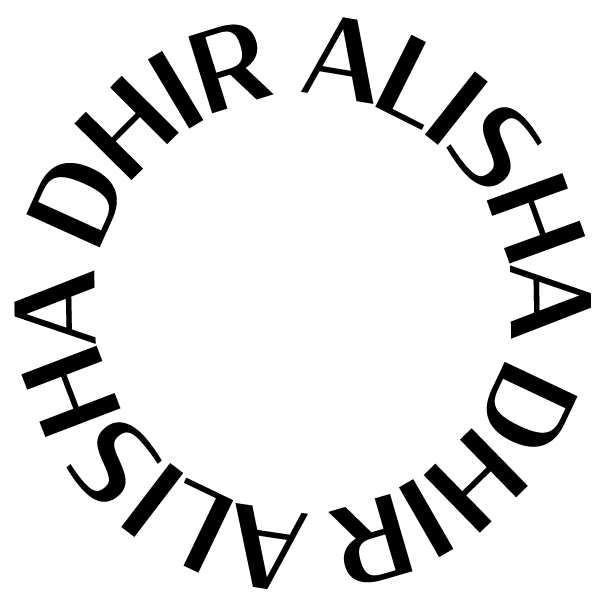
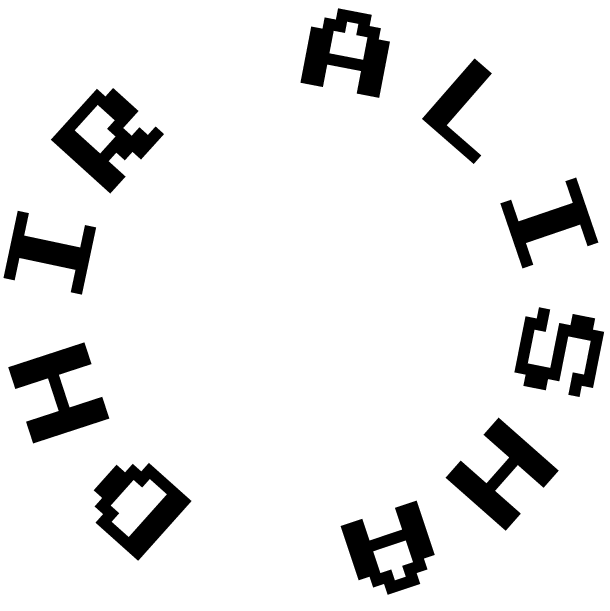
YES ITS WORKING

Changed region(s): [[0.4752, 0.0, 1.0, 0.9802], [0.0, 0.0297, 0.505, 0.9802]]

diff --git a/styleone.css b/styleone.css
@@ -4,17 +4,63 @@ body {
   background-color: #FCFCE6;
 }
 
-.enter a{
-  color: black;
-  font-family: Helvetica;
-  font-size: 200px;
+#namecircle{
   display: flex;
   align-items: center;
   justify-content: center;
   margin: 10% 0;
   min-height: 200px;
-  margin-top: 20%;
+  margin-top: 21.5%;
+  z-index: -1;
+  -webkit-animation: rotation 4s infinite linear;
+}
+
+@-webkit-keyframes rotation {
+		from {
+				-webkit-transform: rotate(0deg);
+		}
+		to {
+				-webkit-transform: rotate(359deg);
+		}
+  }
+
+.enter a{
+  color: black;
+  font-family: Helvetica;
+  font-size: 200px;
+  position: absolute;
+  top: 50%;
+  left: 50%;
+  transform: translate(-50%, -50%);
   text-decoration: none;
+  z-index: +1;
+}
+
+.topleft{
+  color: black;
+  font-family: Helvetica;
+  font-size: 70px;
+  position: absolute;
+  top: 8px;
+  left: 16px;
+}
+
+.topright{
+  color: black;
+  font-family: Helvetica;
+  font-size: 70px;
+  position: absolute;
+  top: 8px;
+  right: 16px;
+}
+
+.bottomleft{
+  color: black;
+  font-family: Helvetica;
+  font-size: 70px;
+  position: absolute;
+  bottom: 8px;
+  left: 16px;
 }
 
 @media screen and (max-width: 768px) {

diff --git a/index.html b/index.html
@@ -7,16 +7,29 @@
   <script src="https://cdn.jsdelivr.net/npm/circletype@2.3.0/dist/circletype.min.js" crossorigin="anonymous"></script>
   <script language="JavaScript" src="main.js"></script>
   <link rel="stylesheet" type="text/css" href="styleone.css">
-  <link href='https://fonts.googleapis.com/css?family=Press Start 2P' rel='stylesheet'>
+  <link href='https://fonts.googleapis.com/css?family=Press+Start+2P' rel='stylesheet'>
   <title>OUTSIDE</title>
 </head>
 
 <body>
-  <h1 id="namecircle">ALISHA DHIR</h1>
-  <div class="enter">
-    <a href="indextwo.html">
-      x
-    </a>
+  <div class="container">
+    <div id="namecircle">
+      <img src="images/name_circle.png" alt="namecircle">
+    </div>
+    <div class="enter">
+      <a href="indextwo.html">
+        x
+      </a>
+    </div>
+    <div class="bottomleft">
+        WELCOME
+    </div>
+    <div class="topright">
+      CLICK X
+    </div>
+    <div class="topleft">
+      OH?
+    </div>
   </div>
 </body>
 

diff --git a/main.js b/main.js
@@ -1,1 +1,3 @@
-new CircleType(document.getElementById('namecircle'));
+// const circleType = new CircleType(document.getElementById('#namecircle'));
+// circleType.radius(200).dir(-1);
+// WHY CANT I FIGURE OUT NAMECIRCLE.JS THE INTERNET IS BEING UNHELPFUL
